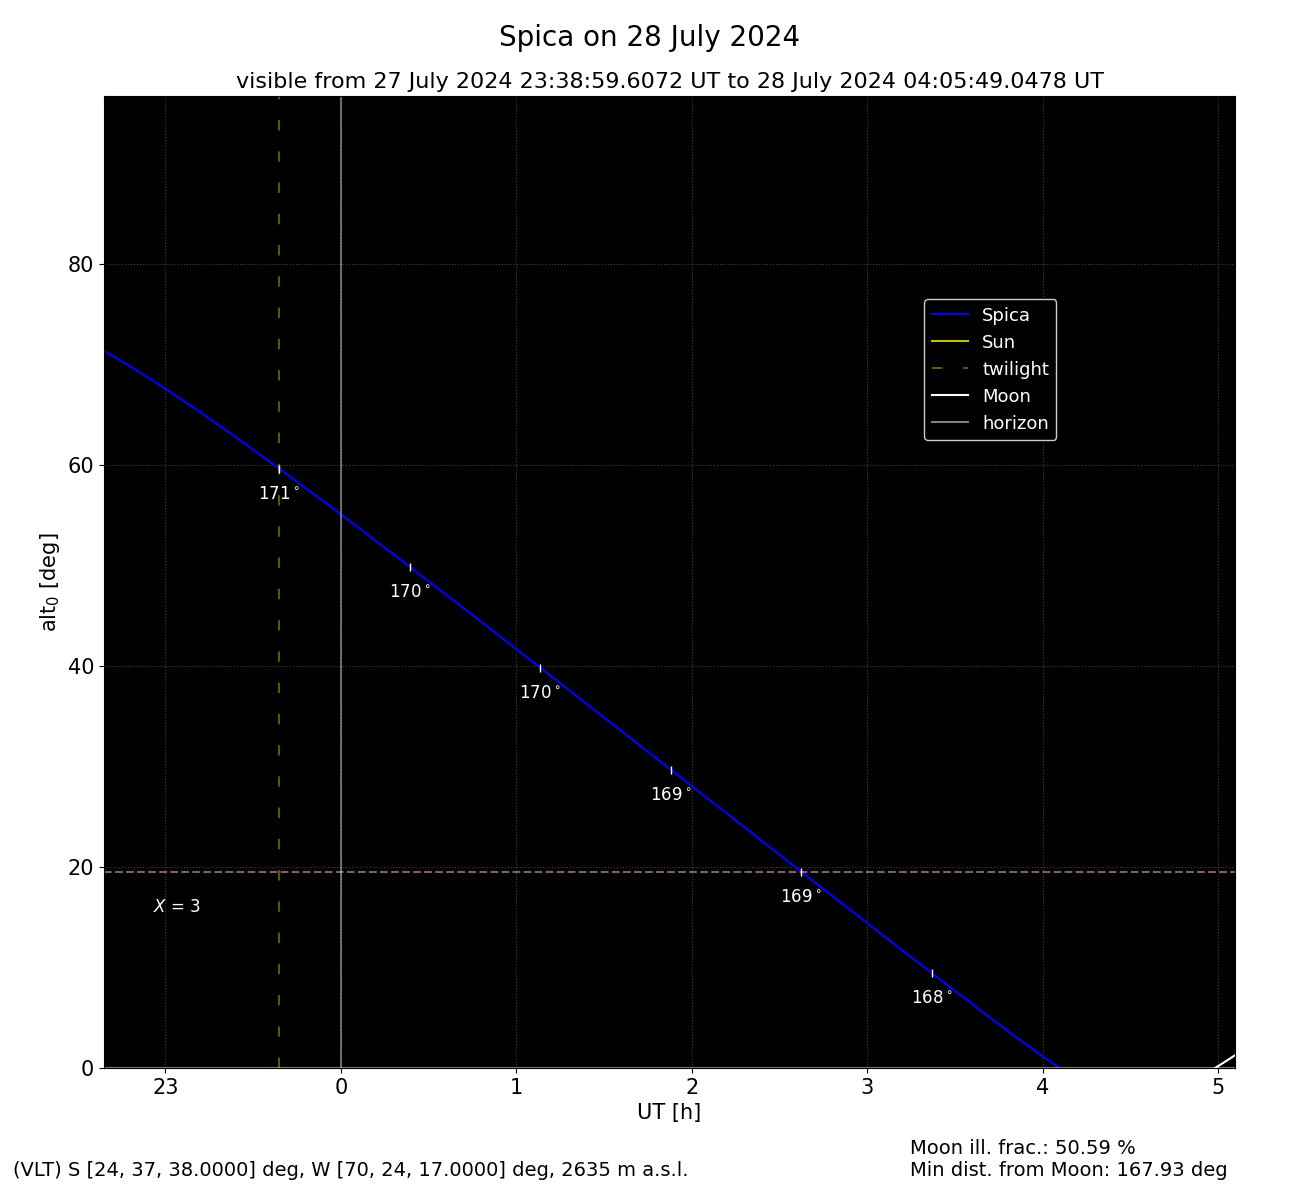
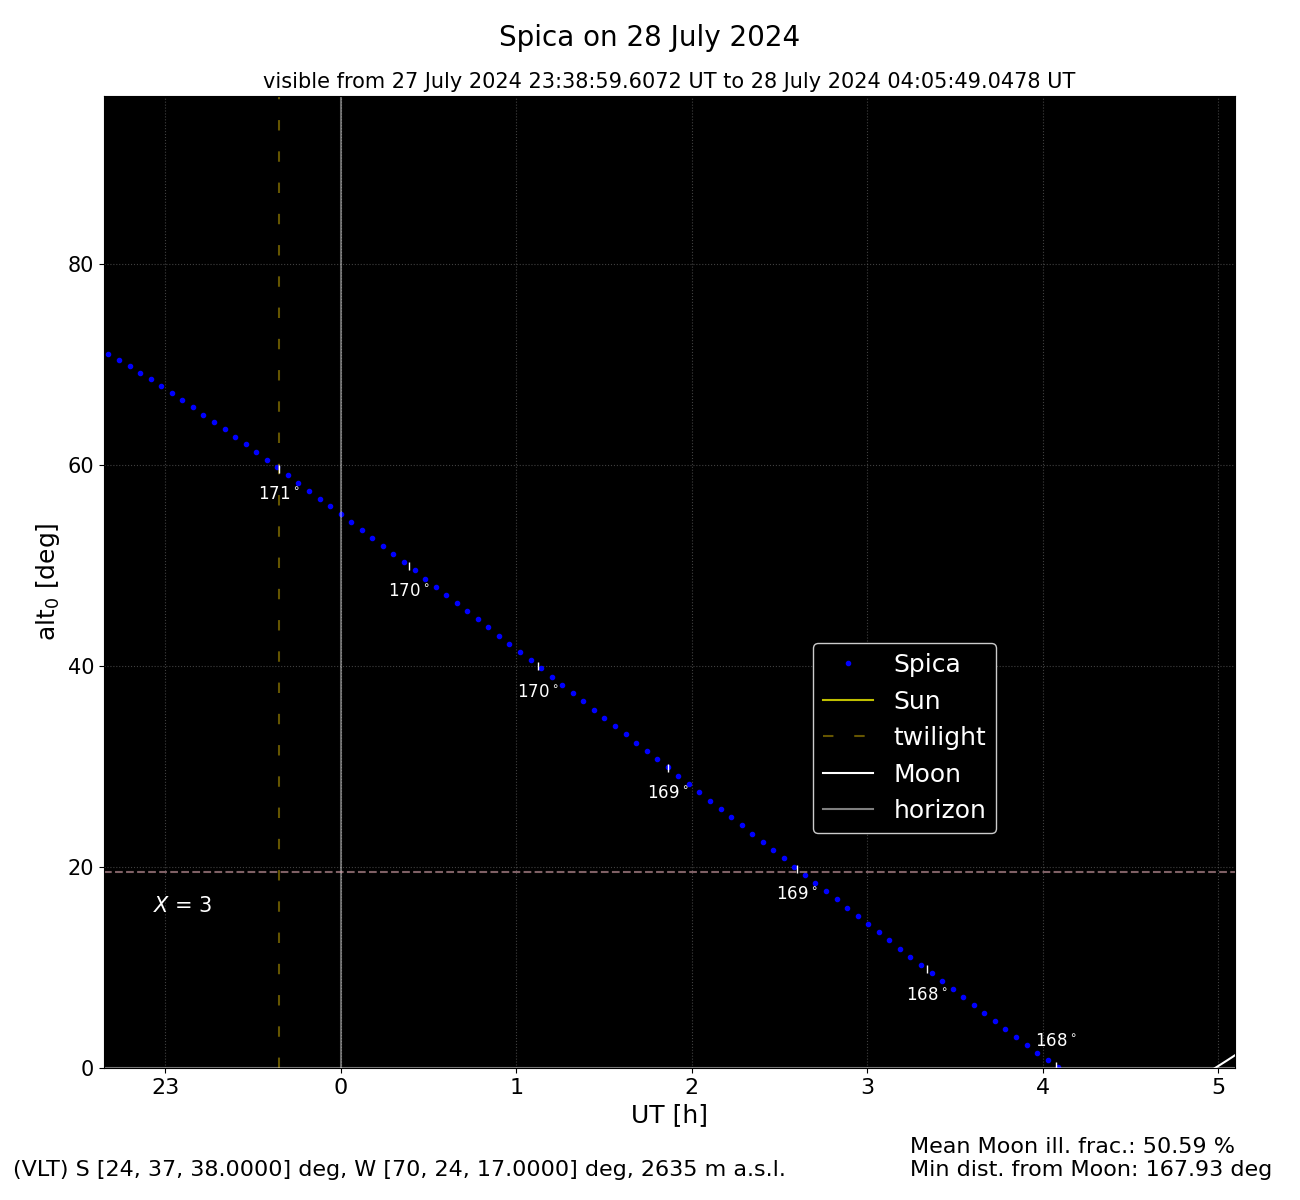
Last updates

diff --git a/visibility/sky.py b/visibility/sky.py
@@ -1233,7 +1233,7 @@ def compute_alt(date: Date, obs_pos: GeoPos, obj: Target, refcor: bool = False) 
     return alt 
 
 
-def trajectory(date: Date, obs_pos: GeoPos, obj: Target, numpoint: int = 1000) -> tuple[Angles, np.ndarray]:
+def trajectory(date: Date, obs_pos: GeoPos, obj: Target, numpoint: int = 400) -> tuple[Angles, np.ndarray]:
     """Function to trace the trajectory of a star during a day
 
     Function returns the computed apparent altitudes and the corrispondent 
@@ -1474,7 +1474,7 @@ def visibility_plot(truedate: Date, date: Date, obj: Target, obs: GeoPos, SUN: S
             if w[0] > w[1]: w = w[::-1]
             subtitle += 'from ' + Date(jd=w[0],timetype=date.time.tytime,timezone=date.timezone,dl_save=date.dls,calendar=date.calendar).print_date() + ' to ' + Date(jd=w[1],timetype=date.time.tytime,timezone=date.timezone,dl_save=date.dls,calendar=date.calendar).print_date()
             cnt += 1
-        plt.title(subtitle,fontsize=16)
+        plt.title(subtitle,fontsize=15)
 
     ## Target
     # computing trajectory
@@ -1484,7 +1484,7 @@ def visibility_plot(truedate: Date, date: Date, obj: Target, obs: GeoPos, SUN: S
     # computing the corresponding apparent altitude
     ealt = compute_alt(event,obs,obj,True)    
     # plotting all
-    plt.plot(dayrange,alt.deg,'b',label=obj.name)
+    plt.plot(dayrange,alt.deg,'.b',label=obj.name)
     if not win_par:
         if type(m) != np.ndarray:
             plt.plot(event.jd,ealt.deg,'vg',label='transit')
@@ -1537,7 +1537,7 @@ def visibility_plot(truedate: Date, date: Date, obj: Target, obs: GeoPos, SUN: S
     hour = date.time.hour()
     # factor to have a nice display
     N = 25 if hour <= (int(hour)+0.5) else 26
-    # ticks of the plot in jds
+    # ticks of the plot in jds20
     ticks = Date(date.date, (np.arange(0,N,1)+int(date.time.hour()))*3600,timetype=date.time.tytime,timezone=date.timezone,dl_save=date.dls,calendar=date.calendar)
     # label of ticks is in hours
     labelticks = np.round(ticks.time.hour(),0).astype(int)
@@ -1563,16 +1563,16 @@ def visibility_plot(truedate: Date, date: Date, obj: Target, obs: GeoPos, SUN: S
             startpos = window.min()
         else:
             startpos = dayrange[0]
-        plt.annotate('$X$ = 3',(startpos,altmu),(startpos-0.03,altmu+textpos),fontsize=12,color='white')
+        plt.annotate('$X$ = 3',(startpos,altmu),(startpos-0.03,altmu+textpos),fontsize=15,color='white')
 
-    plt.xticks(ticks.jd,labelticks,fontsize=15)
+    plt.xticks(ticks.jd,labelticks,fontsize=16)
     plt.yticks(fontsize=15)
-    plt.xlabel('UT [h]',fontsize=15)
-    plt.ylabel('alt$_0$ [deg]',fontsize=15)
+    plt.xlabel('UT [h]',fontsize=18)
+    plt.ylabel('alt$_0$ [deg]',fontsize=18)
     plt.grid(linestyle='dotted',color='gray',alpha=0.5)
     # information about the place of the observatory
     location_string = obs.place_info(True)
-    plt.text(0.01, 0.02, location_string, fontsize=14, transform=plt.gcf().transFigure)
+    plt.text(0.01, 0.02, location_string, fontsize=16, transform=plt.gcf().transFigure)
     # condition to show the illuminated fraction of the Moon's disk
     if k is not None:
         info_str = f'Mean Moon ill. frac.: {k*100:.2f} %'
@@ -1604,7 +1604,7 @@ def visibility_plot(truedate: Date, date: Date, obj: Target, obs: GeoPos, SUN: S
                             alt_pos = 2
                         plt.annotate(f'{dist[i]:.0f}$^\circ$',(dtime[i],dalt[i]),(dtime[i]-0.005,dalt[i]+alt_pos),color='white',fontsize=12)
         # displaying minimum distance
-        plt.text(0.7, 0.02, info_str, fontsize=14, transform=plt.gcf().transFigure)
+        plt.text(0.7, 0.02, info_str, fontsize=16, transform=plt.gcf().transFigure)
     # case for a not-visible target
     if not_vis is not None:
         props = dict(boxstyle='round', facecolor='red', alpha=0.8)
@@ -1618,9 +1618,9 @@ def visibility_plot(truedate: Date, date: Date, obj: Target, obs: GeoPos, SUN: S
         max_moonalt = max(moonalt.deg)
         plt.xlim(*xlims)
         plt.ylim(0,max(max_alt,max_sunalt,max_moonalt)+20)
-        pos_leg = (0.85,0.8)
+        pos_leg = (0.8,0.45)
     if not_vis is None:
-        plt.legend(numpoints=1,facecolor='black',labelcolor='w',bbox_to_anchor=pos_leg,fontsize=13).get_frame().set_alpha(None)
+        plt.legend(numpoints=1,facecolor='black',labelcolor='w',bbox_to_anchor=pos_leg,fontsize=18).get_frame().set_alpha(None)
     # condtion to save automatically the figure
     if save_fig:
         from .stuff import RESULTS_FOLDER, ph

diff --git a/script.py b/script.py
@@ -5,13 +5,13 @@ import visibility.sky as sky
 
 if __name__ == '__main__':
     data_file = 'targets.csv'
-    st, end = 0,6#,None
+    st, end = 0,None
     sel = slice(st,end)
     window = True
-    save_fig = False
-    displot = False
+    save_fig = True
+    displot = True
     targets, observatories, dates = initialize_data(data_file,sel=sel)    
 
 
     for (obj,obs,date) in zip(targets,observatories,dates):
-        _ = visibility(date,obj,obs,win=window,save_fig=save_fig,display_plots=displot)
+        _ = visibility(date,obj,obs,numpoint=700,win=window,save_fig=save_fig,display_plots=displot)
